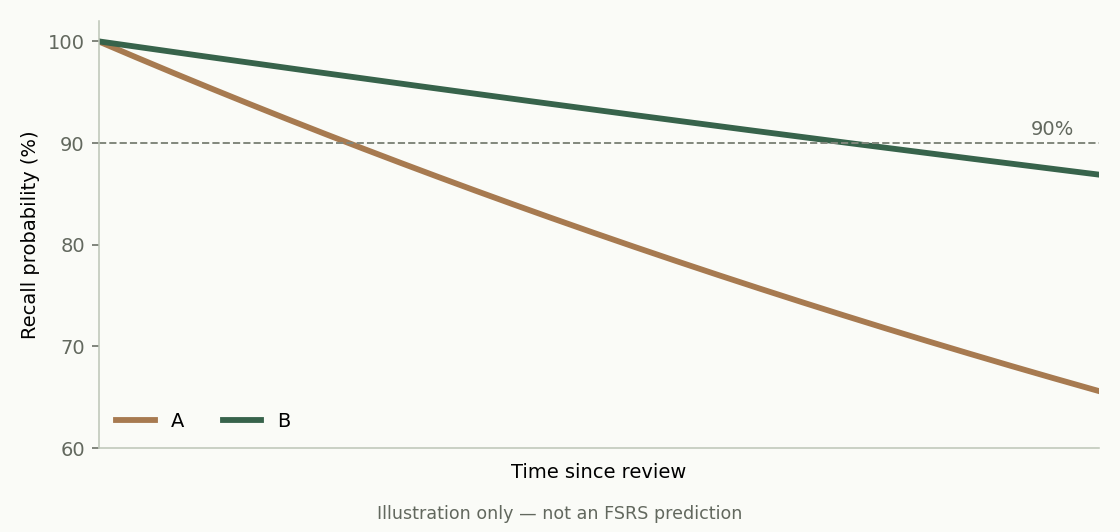
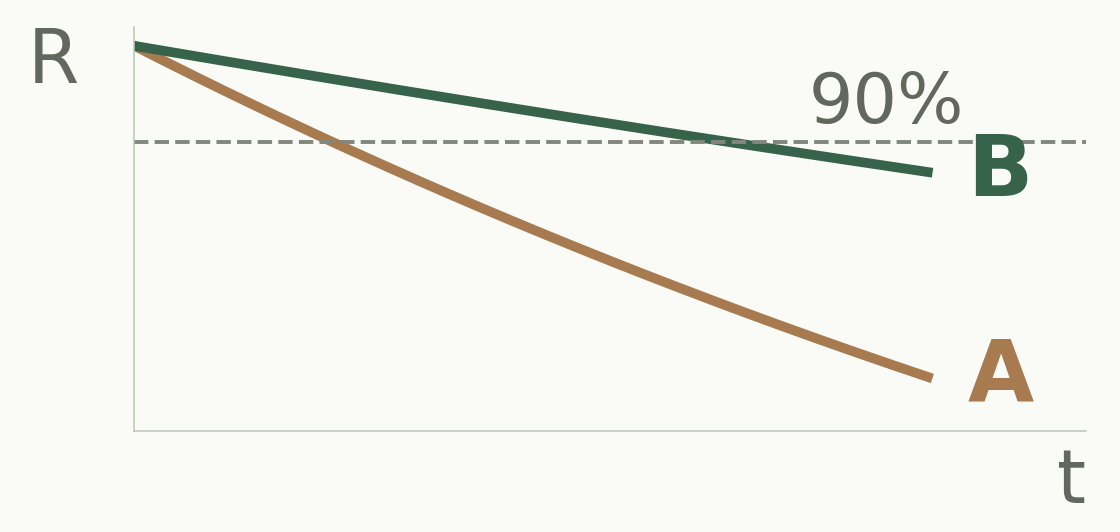
fix: keep starter diagrams and formulas readable on phones

diff --git a/src/core/starter/content.ts b/src/core/starter/content.ts
@@ -79,14 +79,15 @@ export const content: Record<Locale, { name: string; description: string; entrie
         topic: 'fsrs',
         front: '一张卡片的稳定性 S = 10 天，意味着什么？',
         back:
-          '模型估计，经过 10 天后，回想概率降到 90%。\n\n$$S = 10\\text{ 天} \\quad \\Rightarrow \\quad R(10) = 0.9$$\n\n这展示了数学公式：编辑时用 `$...$` 写行内公式、`$$...$$` 写独立公式。实际到期时间还受目标保留率和学习步骤等设置影响。[稳定性定义](' +
+          '模型估计，经过 10 天后，回想概率降到 90%。\n\n$$S = 10 \\;\\Rightarrow\\; R(10) = 0.9$$\n\n这展示了数学公式：编辑时用 `$...$` 写行内公式、`$$...$$` 写独立公式。实际到期时间还受目标保留率和学习步骤等设置影响。[稳定性定义](' +
           fsrs +
           ')',
       },
       {
         topic: 'fsrs',
         media: 'curve',
-        front: '图中 A、B 两条曲线，哪一条对应更稳定的记忆？',
+        front:
+          '图中 A、B 两条曲线，哪一条对应更稳定的记忆？\n\n横轴 t 是时间，纵轴 R 是想起答案的概率。',
         back: '**B。** 它下降得更慢，也更晚到达 90% 的虚线。\n\n图中曲线仅用于解释稳定性，不是实际 FSRS 公式，也不是你的个人预测。可以在卡片正面、背面添加图片，或直接粘贴图片。',
       },
       {
@@ -244,14 +245,15 @@ export const content: Record<Locale, { name: string; description: string; entrie
         topic: 'fsrs',
         front: 'What does a stability of S = 10 days mean?',
         back:
-          'The model estimates that recall probability reaches 90% after 10 days.\n\n$$S = 10\\text{ days} \\quad \\Rightarrow \\quad R(10) = 0.9$$\n\nThis card also demonstrates math: use `$...$` inline or `$$...$$` for a separate formula. Actual due dates also depend on settings such as desired retention and learning steps. [Stability](' +
+          'The model estimates that recall probability reaches 90% after 10 days.\n\n$$S = 10 \\;\\Rightarrow\\; R(10) = 0.9$$\n\nThis card also demonstrates math: use `$...$` inline or `$$...$$` for a separate formula. Actual due dates also depend on settings such as desired retention and learning steps. [Stability](' +
           fsrs +
           ')',
       },
       {
         topic: 'fsrs',
         media: 'curve',
-        front: 'Which curve, A or B, represents a more stable memory?',
+        front:
+          'Which curve, A or B, represents a more stable memory?\n\nTime (t) runs left to right; recall probability (R) runs bottom to top.',
         back: '**B.** It declines more slowly and reaches the 90% line later.\n\nThese curves illustrate stability. They are not the FSRS formula or a personal prediction. Attach or paste an image on either side of a card to make your own visual questions.',
       },
       {

diff --git a/scripts/draw-starter-curve.py b/scripts/draw-starter-curve.py
@@ -1,4 +1,7 @@
-"""Original teaching illustration; the curves are schematic, not the FSRS formula."""
+"""Original teaching illustration; the curves are schematic, not the FSRS formula.
+
+Regenerate with Python, matplotlib and numpy. Large labels remain readable on phones.
+"""
 from pathlib import Path
 import matplotlib
 matplotlib.use('Agg')
@@ -10,16 +13,16 @@ fig, ax = plt.subplots(figsize=(8, 3.8), dpi=140)
 fig.patch.set_facecolor('#fafbf7')
 ax.set_facecolor('#fafbf7')
 for stability, color, label in [(10, '#a77a50', 'A'), (30, '#37634b', 'B')]:
-    ax.plot(x, 100 * .9 ** (x / stability), color=color, lw=3, label=label)
-ax.axhline(90, color='#81877c', ls='--', lw=1)
-ax.text(39, 90.8, '90%', ha='right', color='#62685e')
-ax.set(xlim=(0, 40), ylim=(60, 102), xlabel='Time since review', ylabel='Recall probability (%)')
+    ax.plot(x, 100 * .9 ** (x / stability), color=color, lw=5)
+    ax.text(42, 100 * .9 ** (40 / stability), label, color=color, fontsize=44, va='center', weight='bold')
+ax.axhline(90, color='#81877c', ls='--', lw=2)
+ax.text(34, 92, '90%', color='#62685e', fontsize=36)
+ax.set(xlim=(0, 48), ylim=(60, 102))
+ax.set_xlabel('t', loc='right', fontsize=38, color='#62685e')
+ax.text(-.085, .91, 'R', transform=ax.transAxes, fontsize=38, color='#62685e', va='center', ha='center')
 ax.set_xticks([])
-ax.set_yticks([60, 70, 80, 90, 100])
+ax.set_yticks([])
 ax.spines[['top', 'right']].set_visible(False)
 ax.spines[['left', 'bottom']].set_color('#bdc6b8')
-ax.tick_params(colors='#62685e')
-ax.legend(frameon=False, loc='lower left', ncol=2)
-fig.text(.5, .025, 'Illustration only — not an FSRS prediction', ha='center', color='#62685e', fontsize=9)
-fig.tight_layout(rect=(0, .055, 1, 1))
+fig.subplots_adjust(left=.12, bottom=.19, top=.95, right=.97)
 fig.savefig(Path(__file__).resolve().parents[1] / 'src/core/starter/recall.png', metadata={'Software': 'Repeaty'})
